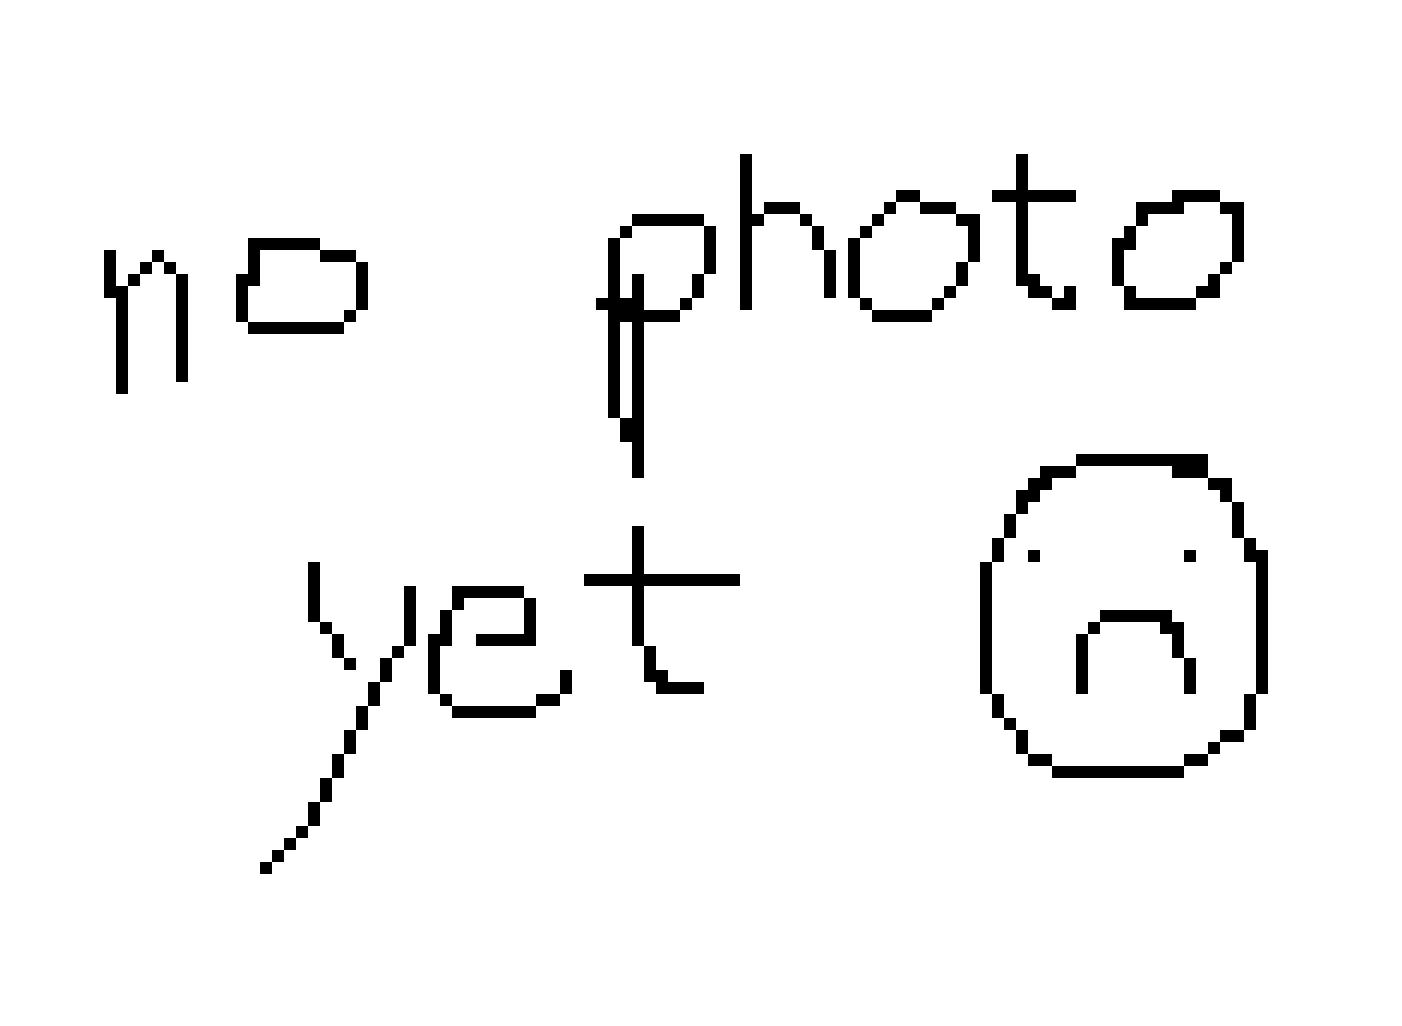
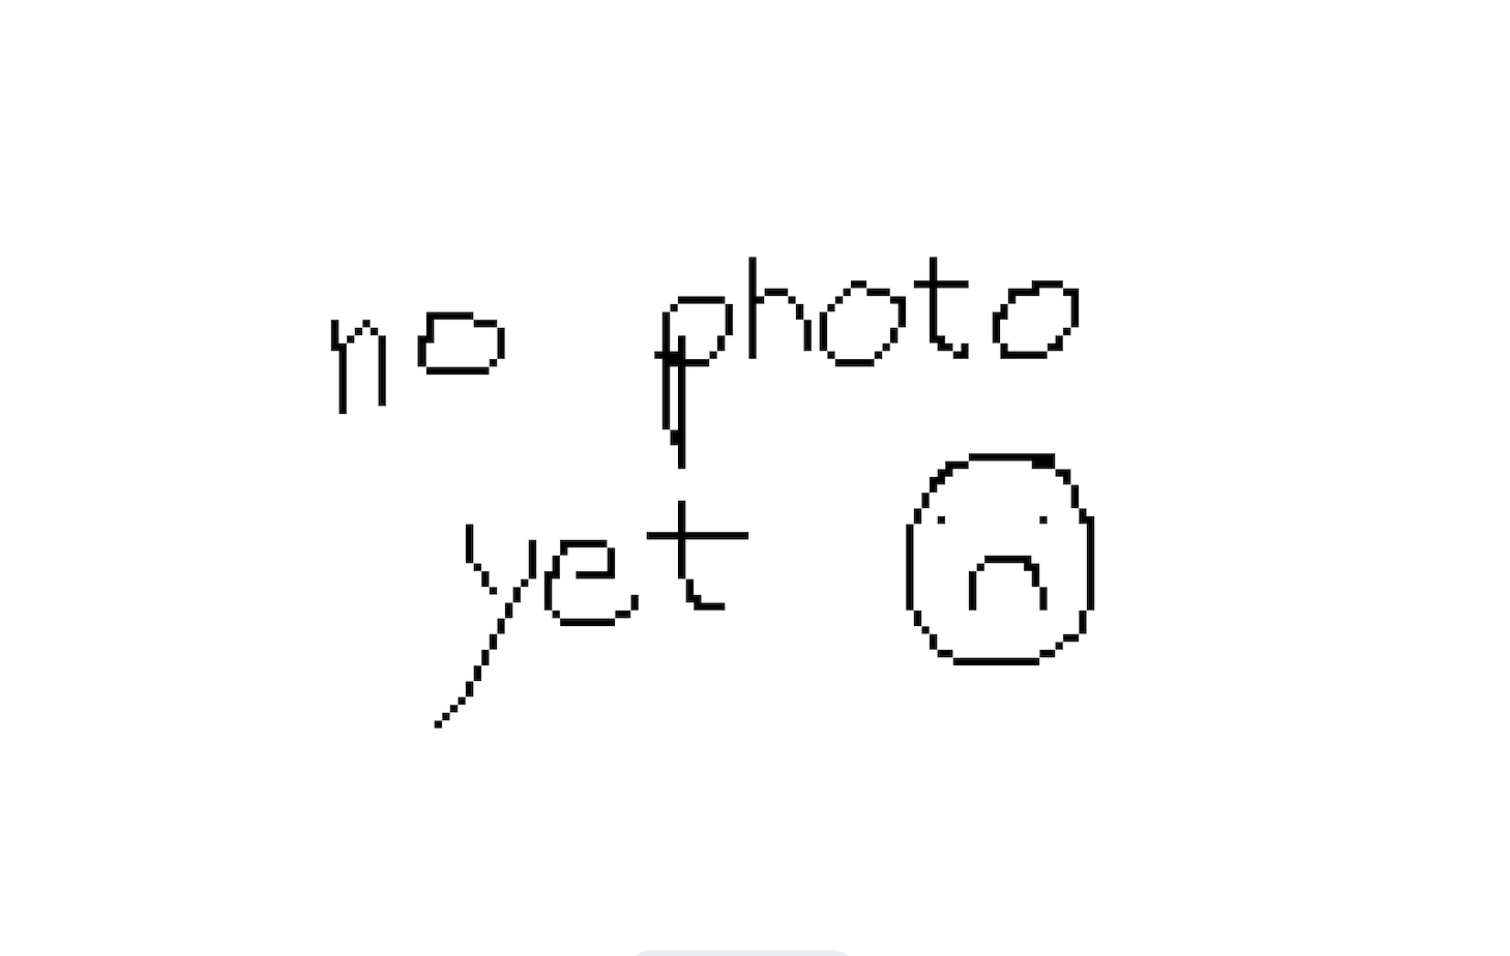
new font and adjusted no_photo_yet

diff --git a/style.css b/style.css
@@ -1,6 +1,6 @@
 @font-face {
-  font-family: "Cafetalk";
-  src: url("Cafetalk-KV9eo.otf") format("opentype");
+  font-family: "Beachday";
+  src: url("beachday.ttf") format("truetype");
 }
 
 body{
@@ -9,7 +9,7 @@ body{
 }
 
 h1 {
-  font-family: "Cafetalk", "Lucida Console", "Courier New", monospace;
+  font-family: "Beachday", "Lucida Console", "Courier New", monospace;
   -webkit-font-smoothing: antialiased;
   -moz-osx-font-smoothing: grayscale;
   text-rendering: optimizeLegibility;